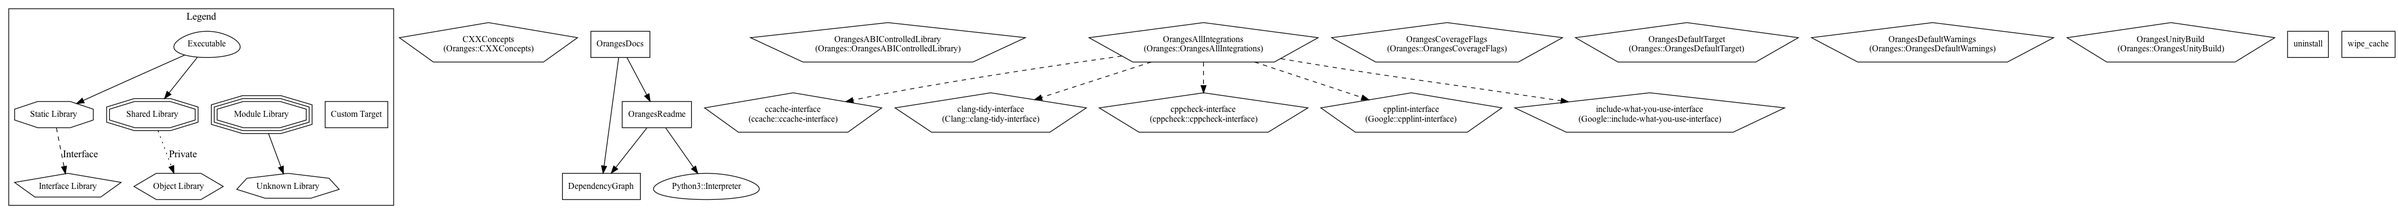
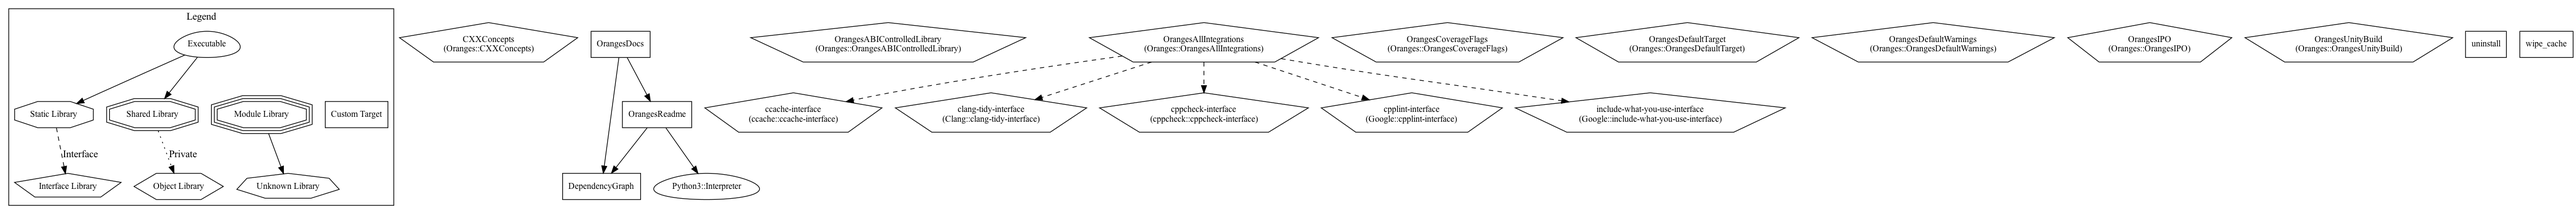
feat: added a new IPO module
Precommit-Verified: 2d5ad18f85e8d18eccc1c1ee174141f902f84c7c2a192319aee005b06c44c879

diff --git a/README.md b/README.md
@@ -54,6 +54,7 @@ A library of CMake modules.
   * OrangesGeneratePropertiesJSON
   * OrangesGenerateStandardHeaders
   * OrangesGraphVizConfig
+  * OrangesIPO
   * OrangesInstallSystemLibs
   * OrangesJuceModuleUtilities
   * OrangesJuceUtilities
